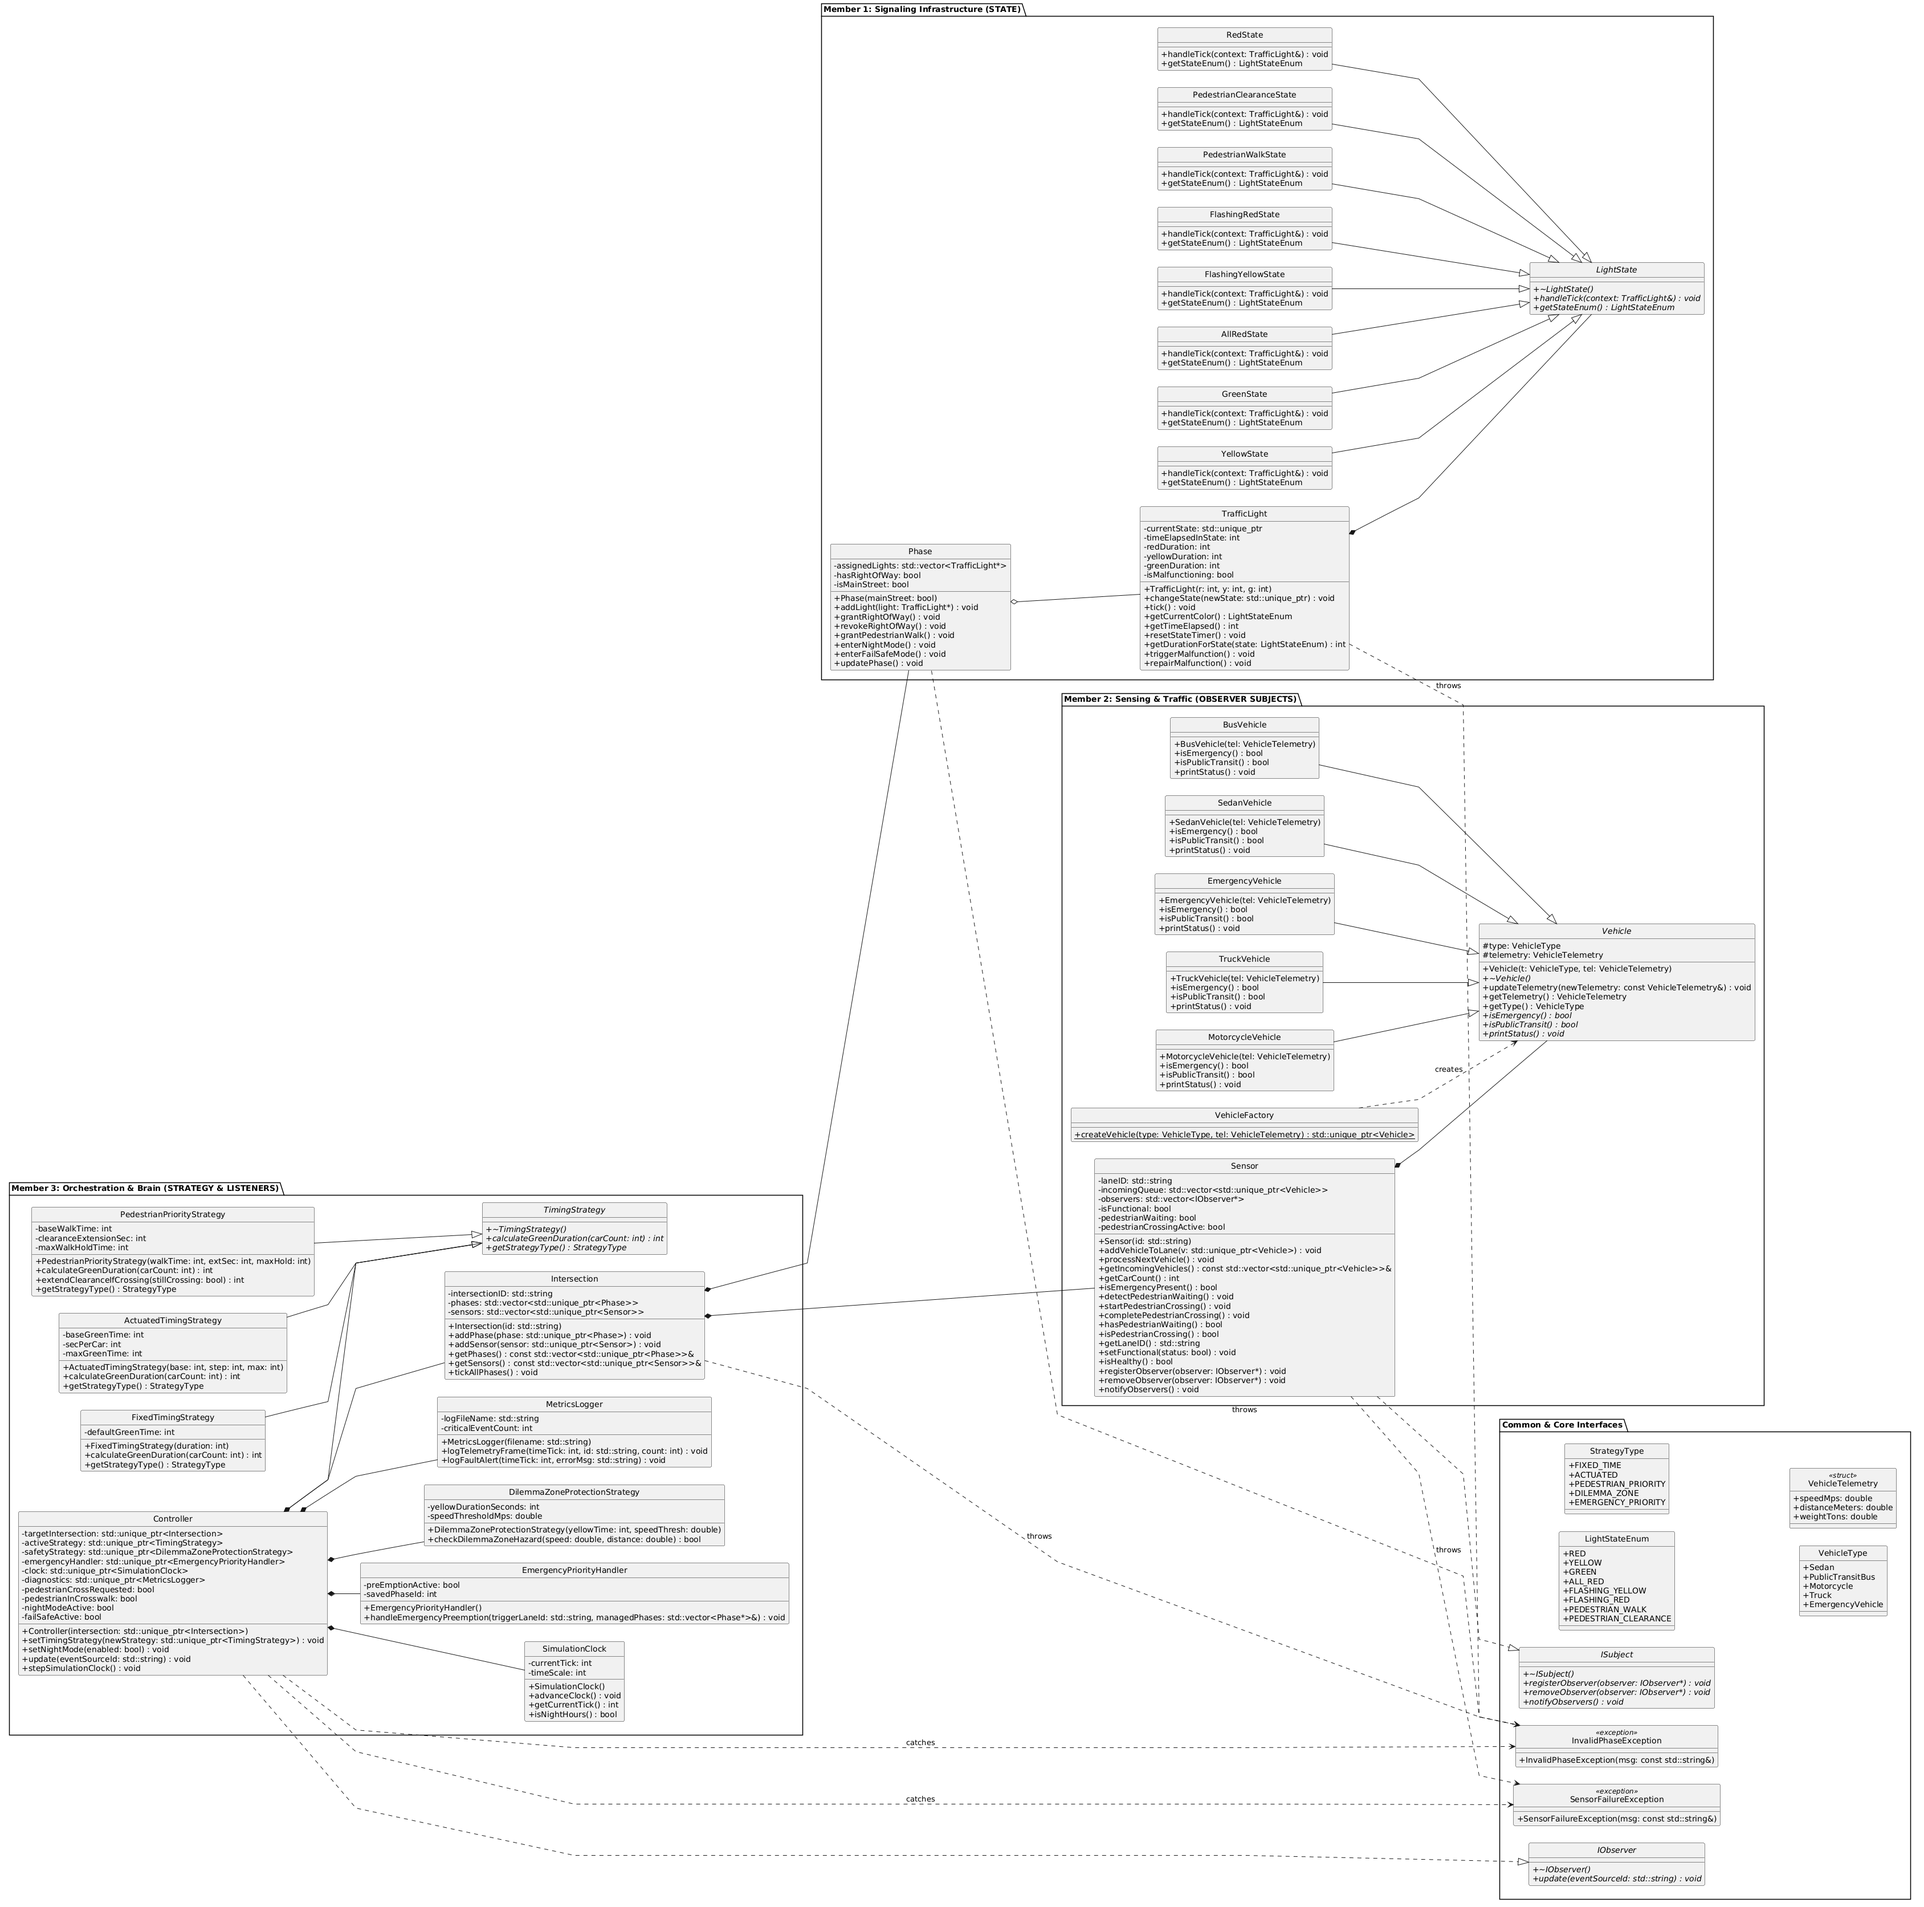
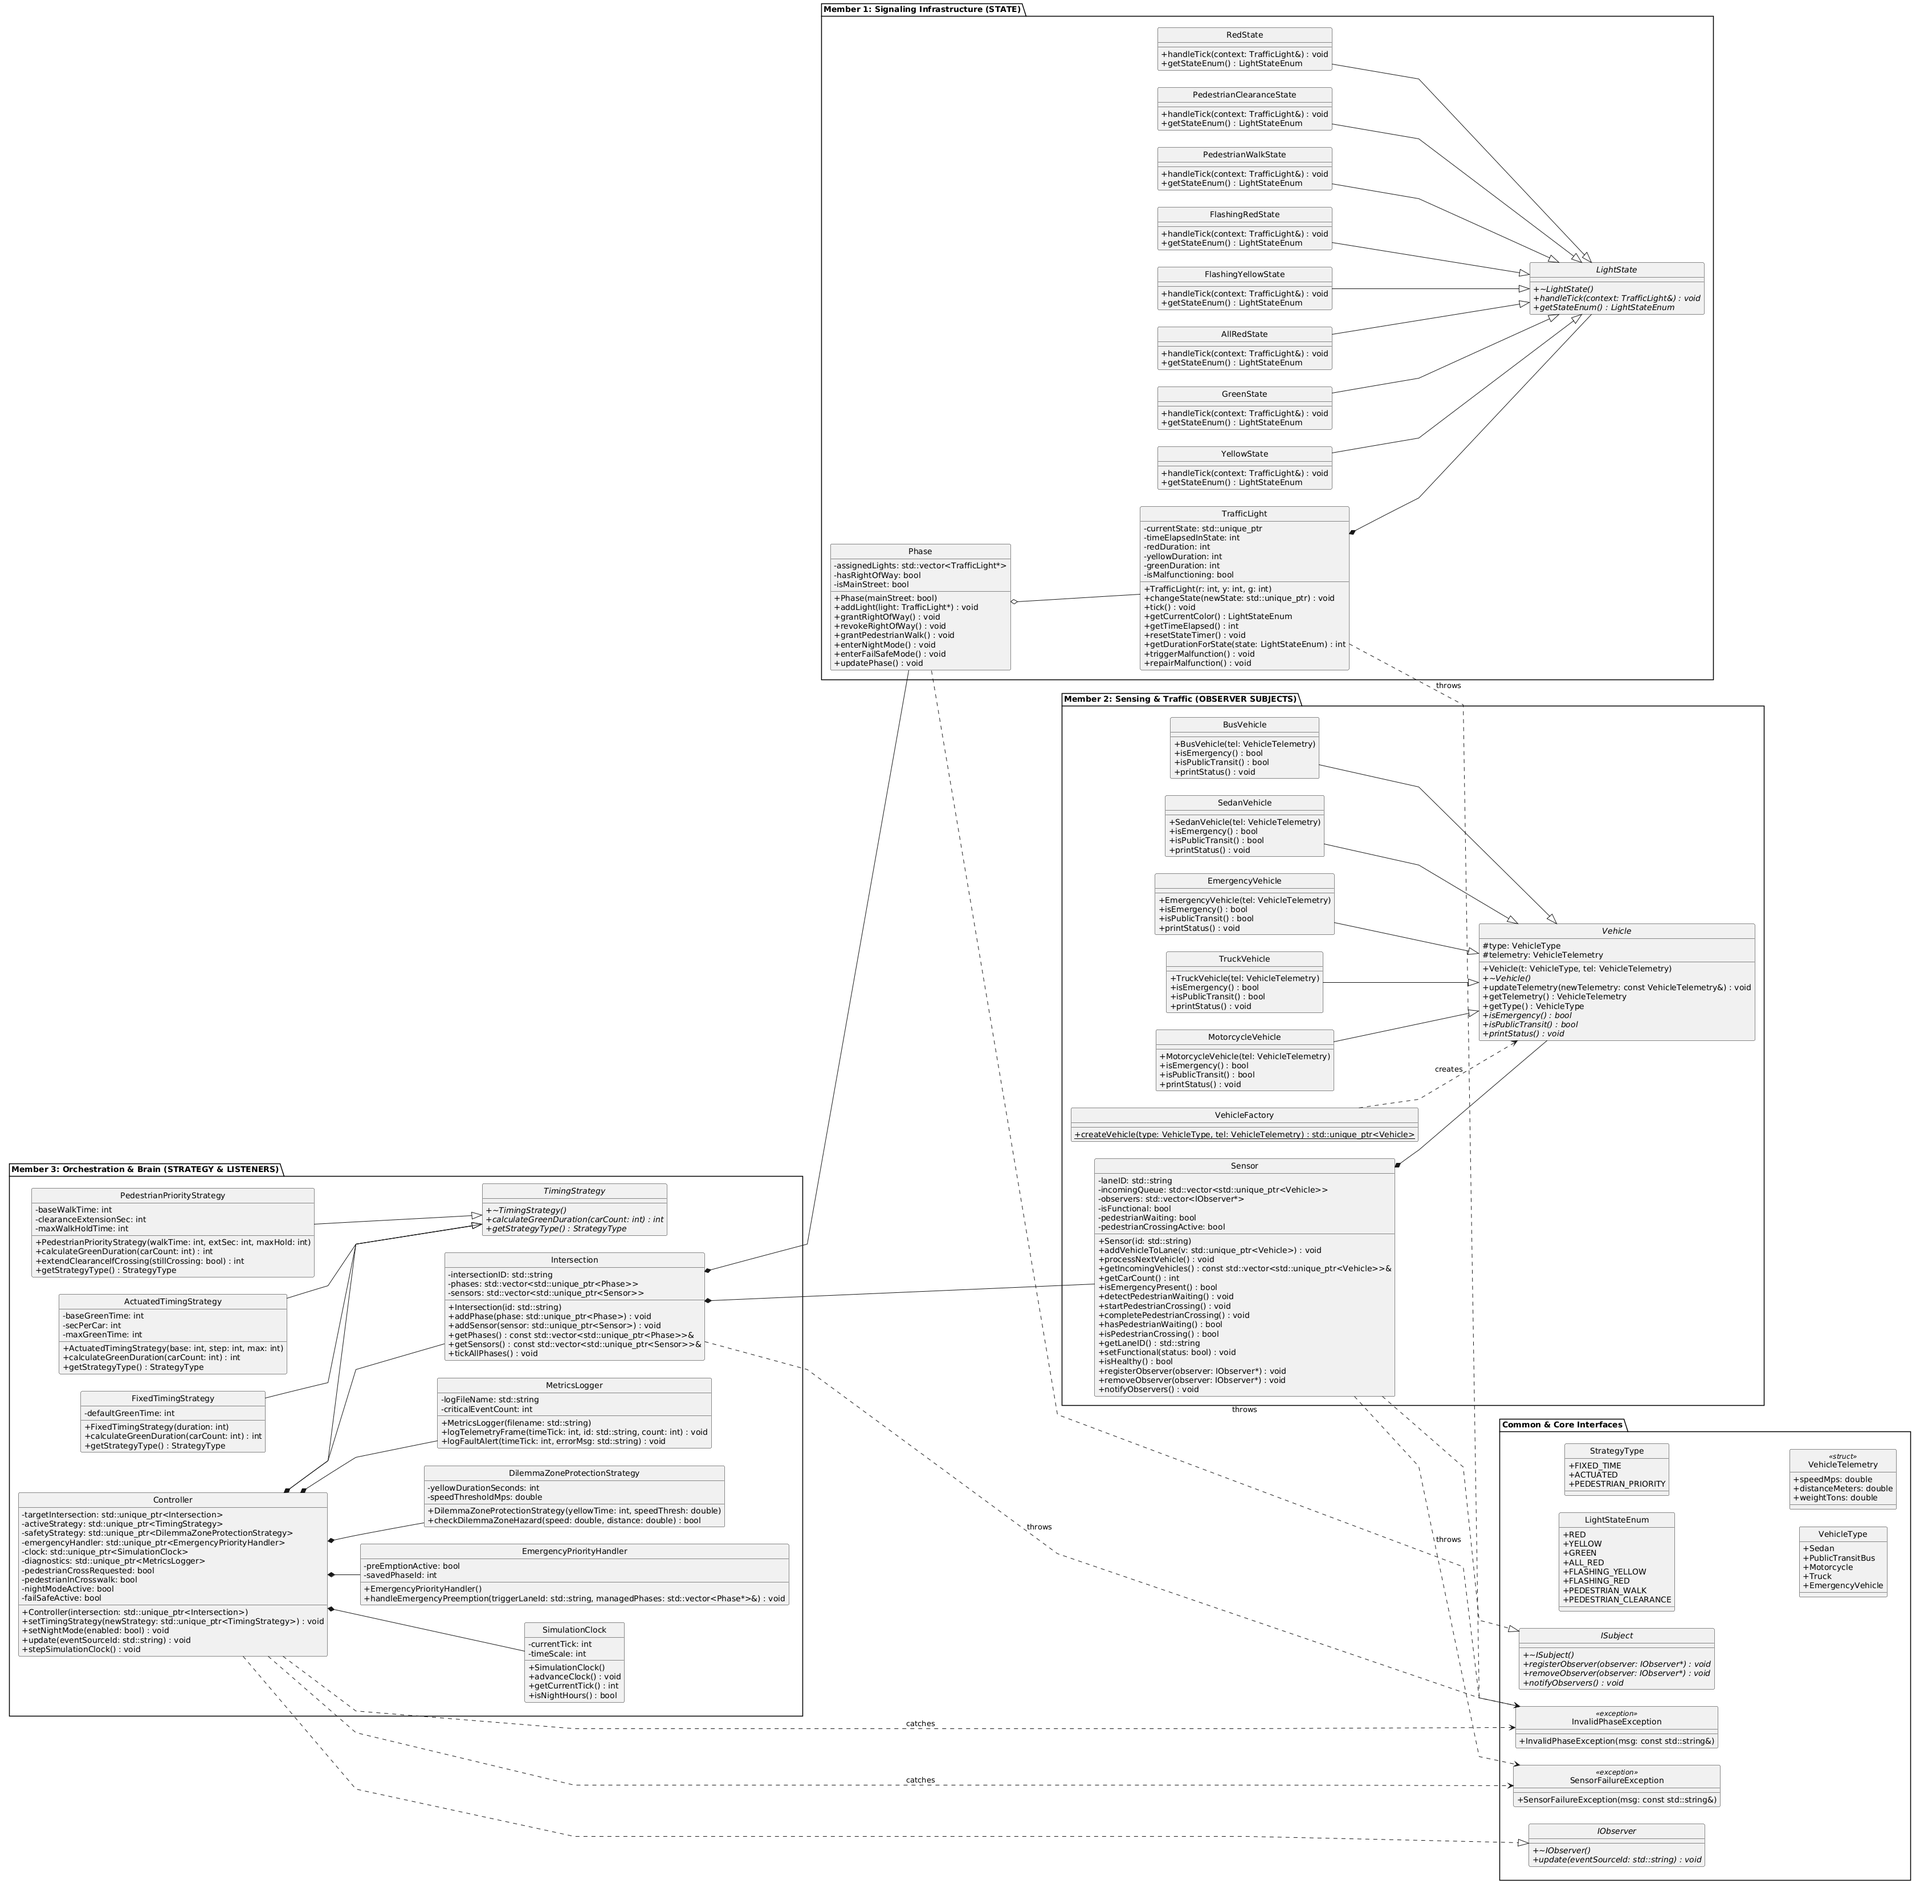
changed StrategyType enums

diff --git a/include/Common.hpp b/include/Common.hpp
@@ -1,7 +1,7 @@
 #pragma once
 
 #include <string>
-//#include <vector>
+#include <vector>
 #include <stdexcept>
 
 class IObserver {
@@ -46,9 +46,7 @@ enum class LightStateEnum {
 enum class StrategyType {
 	FIXED_TIME,
 	ACTUATUED,
-	PEDESTRIAN_PRIORITY,
-	DILEMMA_ZONE,
-	EMERGENCY_PRIORITY
+	PEDESTRIAN_PRIORITY
 };
 
 class InvalidPhaseException :public std::runtime_error {
